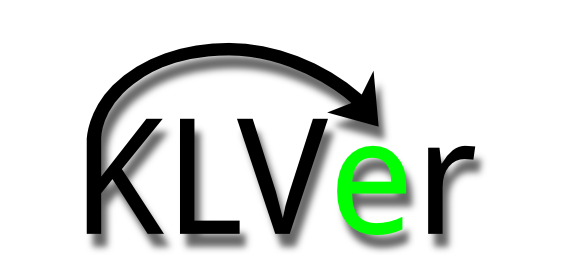
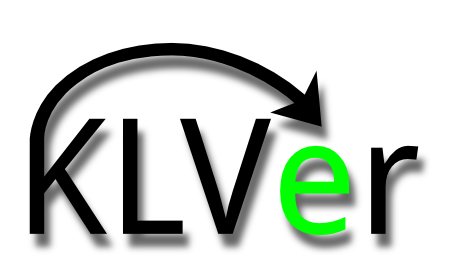
UI change

Changed region(s): [[0.4044, 0.2014, 0.9644, 0.9209], [0.0622, 0.1439, 0.4667, 0.9209], [0.4356, 0.1727, 0.5289, 0.2302]]

diff --git a/share/css/main.css b/share/css/main.css
@@ -1,3 +1,9 @@
+@font-face {
+    font-family : "Arial Wide";
+    font-stretch : ultra-expanded;
+
+}
+
 html, body {
     margin: 0 0;
     background-color: #eee;
@@ -35,40 +41,61 @@ button:active {
 }
 
 .header {
-    height: 96px;
-    padding: 5px 5px;
-    background: -webkit-linear-gradient(white, lightgray, #DDD);
-    background: -moz-linear-gradient(white, lightgray, #DDD);
-    background: -ms-linear-gradient(white, lightgray, #DDD);
-    background: linear-gradient(white, lightgray, #DDD);
+    height: 72px;
+    padding: 5px 15px;
+    background: -webkit-linear-gradient(lightgray, #DDD);
+    background: -moz-linear-gradient(lightgray, #DDD);
+    background: -ms-linear-gradient(lightgray, #DDD);
+    background: linear-gradient(lightgray, #DDD);
     border-bottom: 2px solid lightgray;
+    box-shadow: 0 0 3px;
 }
 .header .banner {
     float: left;
 }
 
+.header .banner * {
+    vertical-align: middle;
+}
+
 .header .info {
     float: right;
     font-size: 14px;
+    margin-top: 42px;
 }
 
-.sidebar_l {
-    border-right: 2px solid lightgray;
-    width: 256px;
+
+.header .banner span.title{
+    font-family: "Arial Wide";
+    font-size:36px;
+}
+
+.main {
     height: 100%;
 }
 
 .footer {
-    height: 96px;
+    height: 64px;
     padding: 5px 5px;
     text-align: center;
     border-top: 2px solid lightgray;
     font-size: 12px;
 
-    background: -webkit-linear-gradient(#DDD, lightgray, white);
-    background: -moz-linear-gradient(#DDD, lightgray, white);
-    background: -ms-linear-gradient(#DDD, lightgray, white);
-    background: linear-gradient(#DDD, lightgray, white);
+    background: -webkit-linear-gradient(#DDD, lightgray);
+    background: -moz-linear-gradient(#DDD, lightgray);
+    background: -ms-linear-gradient(#DDD, lightgray);
+    background: linear-gradient(#DDD, lightgray);
+}
+.content {
+    float: left;
+    height: 100%;
+}
+
+.sidebar_l {
+    float: left;
+    width: 256px;
+    border-right: 2px solid #888;
+    height: 100%;
 }
 
 .footer p {

diff --git a/share/html/normal/main.html b/share/html/normal/main.html
@@ -9,7 +9,8 @@
         <body>
                 <div class="header">
                     <div class="banner">
-                        <img src="images/KLVer.png" height="96">
+                        <img src="images/Logo.png" height="72">
+                        <span class="title">KLVer</span>
                     </div>
                     <div class="info">
                         <span>{{.HTML_LOGIN_AS}}</span>
@@ -17,9 +18,11 @@
                         <button id="btn_logout">{{.HTML_BTN_LOGOUT}}</button>
                     </div>
                 </div>
-                <div class="sidebar_l">
-                </div>
-                <div class="content">
+                <div class="main">
+                    <div class="sidebar_l">
+                    </div>
+                    <div class="content">
+                    </div>
                 </div>
                 <div class="footer">
                     <p>
